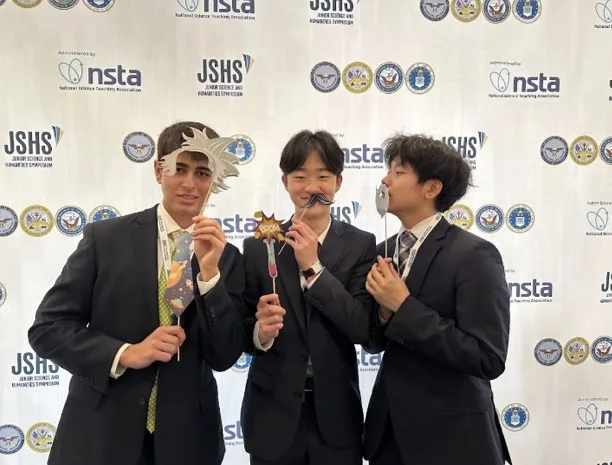
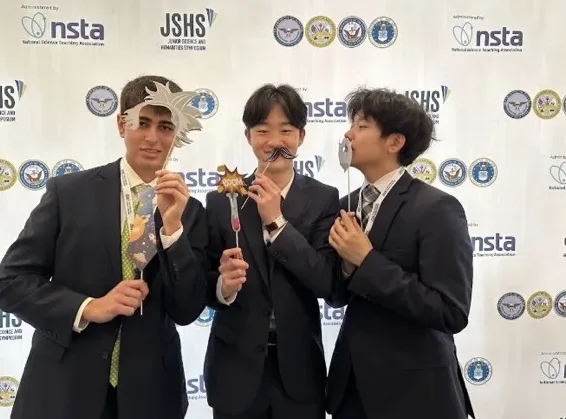
Reset img height, and recrop four gallery photos onto their subjects
Two separate bugs.

The project galleries rendered as tall vertical strips: measured in a
browser, each photo was 351x800 at ratio 0.438. The cause is in
global.css -- `img { max-width:100%; display:block }` never reset
`height`. The width/height attributes we set for CLS become
presentational hints, so with `width:100%` and an attribute height of
800px both dimensions were definite and the `aspect-ratio: 3/2` on
.project__gallery-photo img was ignored. Adding `height: auto` fixes it
everywhere; the home gallery was only correct because it declared
`height: auto` itself. The three photos now measure 351x234, 351x234 and
351x263, each matching its native ratio.

With the reset in place, drop the forced 3/2 crop from the project
gallery so each photo keeps its real shape, as the home gallery already
does.

Four home gallery photos were cropped so loosely that the event backdrop
was the subject. Recropped onto the people; the white in these frames is
a step-and-repeat banner and a research poster, so tightening the frame
is the only thing that reduces it without losing the content:

- moment-history-award  672x465 -> 350x465, banner no longer dominates
- moment-jshs-friends   612x465 -> 566x419, drops a white sliver at left
- moment-brain-poster   676x505 -> 632x492, drops a partial poster at left
- moment-msst-poster    632x898 -> 619x678, drops empty ceiling

Responsive variants regenerated; moment-history-award no longer needs a
[…]

diff --git a/src/data/photos.ts b/src/data/photos.ts
@@ -61,15 +61,15 @@ export const momentsPhotos: GalleryPhoto[] = [
   },
   {
     src: "gallery/moment-brain-poster.webp",
-    sources: gallerySources("moment-brain-poster", 676),
-    width: 676,
-    height: 505,
+    sources: gallerySources("moment-brain-poster", 632),
+    width: 632,
+    height: 492,
     alt: "Michael Hua presenting his brain vessel segmentation research poster",
   },
   {
     src: "gallery/moment-history-award.webp",
-    sources: gallerySources("moment-history-award", 672),
-    width: 672,
+    sources: gallerySources("moment-history-award", 350),
+    width: 350,
     height: 465,
     alt: "Michael Hua holding his Michigan History Day National Finalist award",
   },
@@ -82,16 +82,16 @@ export const momentsPhotos: GalleryPhoto[] = [
   },
   {
     src: "gallery/moment-jshs-friends.webp",
-    sources: gallerySources("moment-jshs-friends", 612),
-    width: 612,
-    height: 465,
+    sources: gallerySources("moment-jshs-friends", 566),
+    width: 566,
+    height: 419,
     alt: "Michael Hua and two friends posing with playful props at JSHS",
   },
   {
     src: "gallery/moment-msst-poster.webp",
-    sources: gallerySources("moment-msst-poster", 632),
-    width: 632,
-    height: 898,
+    sources: gallerySources("moment-msst-poster", 619),
+    width: 619,
+    height: 678,
     alt: "Michael Hua standing beside his hyperspectral imaging research poster",
   },
 ];

diff --git a/src/styles/global.css b/src/styles/global.css
@@ -246,7 +246,10 @@ a { color: var(--accent-bright); text-decoration: none; }
 a:hover { text-decoration: underline; text-underline-offset: 3px; text-decoration-thickness: 1px; }
 strong, b { font-weight: 600; }
 em { font-style: italic; }
-img { max-width: 100%; display: block; }
+/* height:auto is load-bearing: the width/height attributes we set for CLS
+   become presentational hints, and without this reset a `width:100%` image
+   keeps its attribute height and stretches. */
+img { max-width: 100%; height: auto; display: block; }
 
 .media-unavailable {
   display: grid;

diff --git a/src/pages/projectdetail.css b/src/pages/projectdetail.css
@@ -70,9 +70,7 @@
 
 .project__gallery-photo img {
   width: 100%;
-  aspect-ratio: 3 / 2;
   display: block;
-  object-fit: cover;
   border: 1px solid var(--border);
   filter: saturate(0.94);
 }
